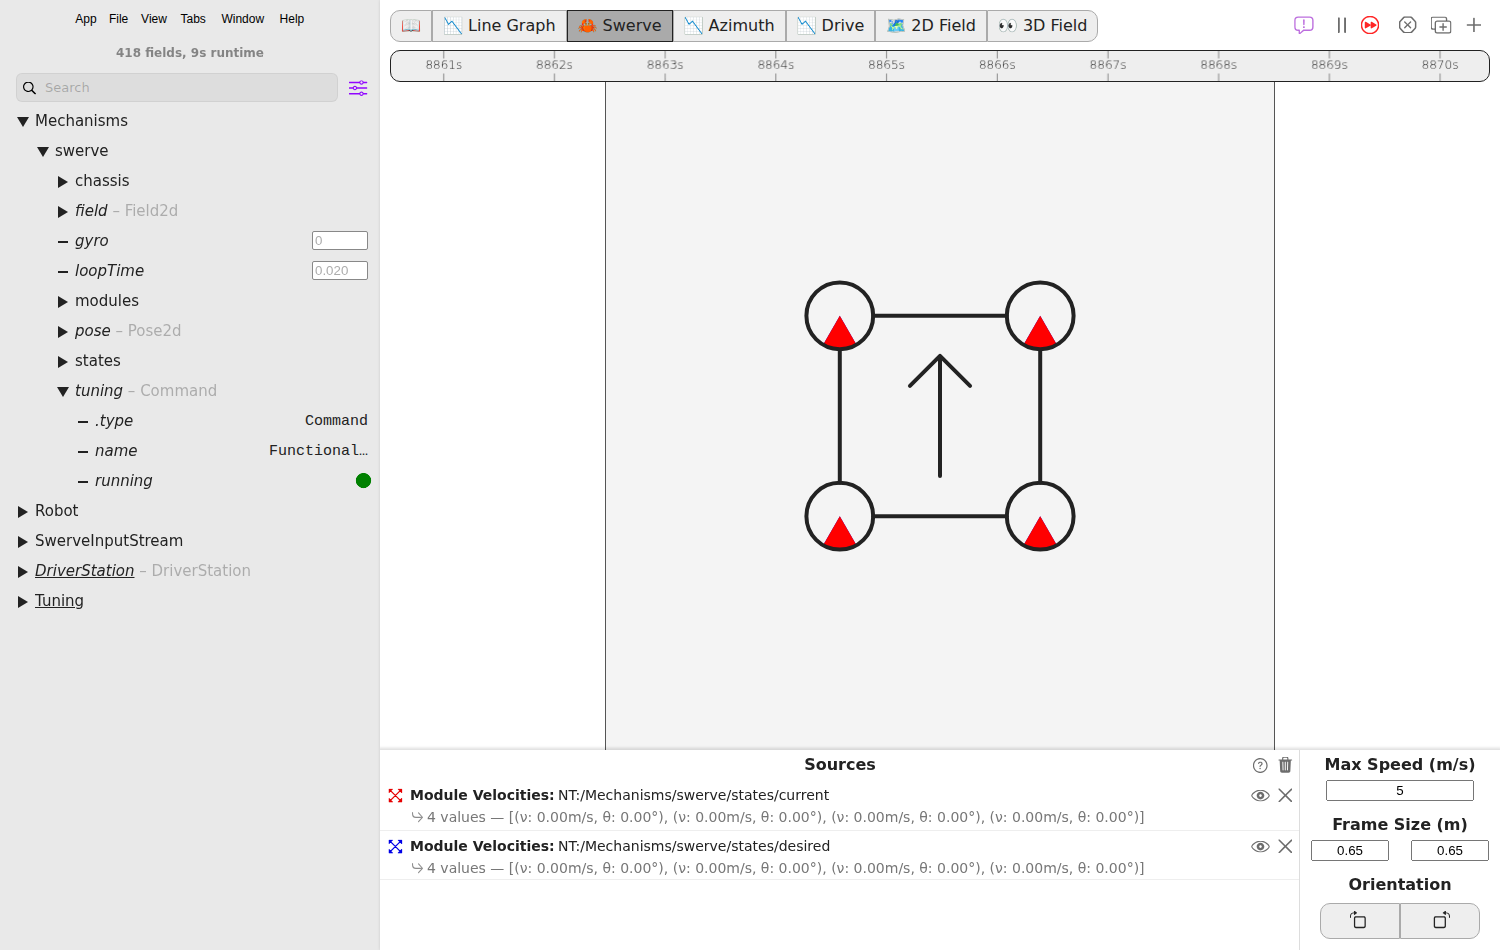
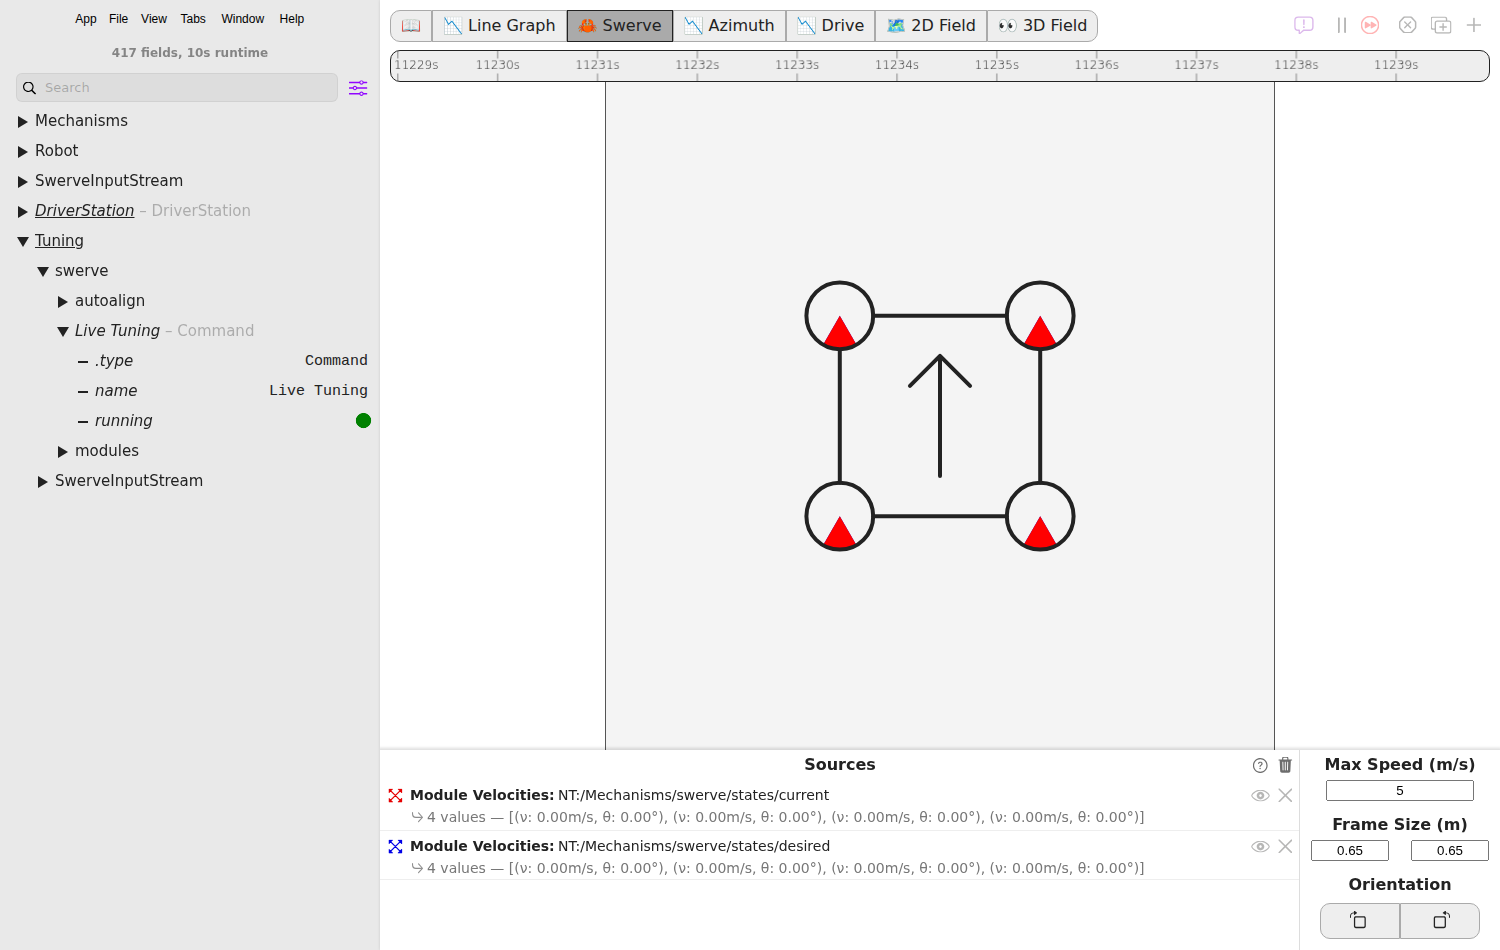
Start the swerve tuning command at Tuning/<name>/Live Tuning, where YAMS now publishes it (#30)
The Live tuning page, the swerve tutorial's tune and robot steps, and the SwerveDrive page name the new path, and the tune step's screenshot shows it.

diff --git a/tutorials/swerve-drive/tune.md b/tutorials/swerve-drive/tune.md
@@ -47,9 +47,9 @@ One module is enough to graph: the tuning command sends all four the same setpoi
 {% step %}
 ### Start the tuning command
 
-In the sidebar, open `Mechanisms/swerve/tuning` and click the dot next to `running`, so that it turns green.
+In the sidebar, open `Tuning/swerve/Live Tuning` and click the dot next to `running`, so that it turns green.
 
-<figure><img src="../../.gitbook/assets/advantagescope-tutorial-swerve-start.png" alt="AdvantageScope with the sidebar open at Mechanisms, swerve, tuning, a Command, where the running dot is green, next to the Swerve tab"><figcaption><p>The tuning command running.</p></figcaption></figure>
+<figure><img src="../../.gitbook/assets/advantagescope-tutorial-swerve-start.png" alt="AdvantageScope with the sidebar open at Tuning, swerve, Live Tuning, a Command, where the running dot is green, next to the Swerve tab"><figcaption><p>The tuning command running.</p></figcaption></figure>
 
 **Check it:** `running` stays green, and the sticks no longer drive the robot. Nothing moves yet: no tuning mode is on.
 {% endstep %}
@@ -106,7 +106,7 @@ Open the drive graph. The drive values are under `Tuning/swerve/modules/drive`.
 ### Stop
 
 1. Click `enabled` under `drive` so that it turns red, and type `0` into `velocity`.
-2. Click `running` under `Mechanisms/swerve/tuning` so that it turns red.
+2. Click `running` under `Tuning/swerve/Live Tuning` so that it turns red.
 
 **Check it:** the sticks drive the robot again.
 {% endstep %}
@@ -114,9 +114,9 @@ Open the drive graph. The drive values are under `Tuning/swerve/modules/drive`.
 
 ## If it did not work
 
-* **Typing a value or clicking a dot does nothing.** Turn on AdvantageScope's tuning mode, and check that `running` under `Mechanisms/swerve/tuning` is green.
-* **`Mechanisms/swerve/tuning` is missing.** The tuning command is only there when `SwerveDriveConfig` has both a translation and a rotation controller, as in step 2, and the drive's telemetry is `TelemetryVerbosity.HIGH`.
-* **The modules do not turn to the angle.** Check that `enabled` under `azimuth` is green, and that `running` under `Mechanisms/swerve/tuning` still is.
+* **Typing a value or clicking a dot does nothing.** Turn on AdvantageScope's tuning mode, and check that `running` under `Tuning/swerve/Live Tuning` is green.
+* **`Tuning/swerve/Live Tuning` is missing.** The tuning command is only there when `SwerveDriveConfig` has both a translation and a rotation controller, as in step 2, and the drive's telemetry is `TelemetryVerbosity.HIGH`.
+* **The modules do not turn to the angle.** Check that `enabled` under `azimuth` is green, and that `running` under `Tuning/swerve/Live Tuning` still is.
 * **A wheel turns the other way and runs backwards.** The angle changed by 90 degrees or more. Step between closer angles, such as 0 and 45.
 
 For every tuning value, including auto-align, see [Swerve drive](../../details/live-tuning/README.md#swerve-drive) on the Live tuning page. More problems and fixes: [Troubleshooting](../troubleshooting.md).

diff --git a/details/live-tuning/README.md b/details/live-tuning/README.md
@@ -441,7 +441,7 @@ The simulation does not know about the spring: it models the full carriage weigh
 | What | Where it is published |
 | --- | --- |
 | Values you type | `NT:/Tuning/<name>/<key>` |
-| The tuning command | `NT:/Mechanisms/<name>/tuning` |
+| The tuning command | `NT:/Tuning/<name>/Live Tuning` |
 | The robot pose to watch | `NT:/Mechanisms/<name>/pose` |
 
 `<name>` is the name given to `SwerveDriveConfig.withTelemetry(name, ...)`. The keys are published at `TelemetryVerbosity.HIGH`.
@@ -456,11 +456,11 @@ The tuning command is only published when both a translation and a rotation cont
 
 {% tabs %}
 {% tab title="Commands v2" %}
-Drag `NT:/Mechanisms/<name>/tuning` onto your Elastic dashboard and press its button, or bind it to a controller button.
+Drag `NT:/Tuning/<name>/Live Tuning` onto your Elastic dashboard and press its button, or bind it to a controller button.
 {% endtab %}
 
 {% tab title="Commands v3" %}
-The command is published through `CommandTunable`. Set `NT:/Mechanisms/<name>/tuning/running` to `true` to start it and `false` to stop it.
+The command is published through `CommandTunable`. Set `NT:/Tuning/<name>/Live Tuning/running` to `true` to start it and `false` to stop it.
 {% endtab %}
 {% endtabs %}
 
@@ -507,7 +507,7 @@ Watch one azimuth motor's `mechanism/position` against its `closedloop/setpoint/
 {% step %}
 #### Start the tuning command and turn the mode on
 
-Start `NT:/Mechanisms/<name>/tuning`, type `0` into `modules/azimuth/angle`, then set `modules/azimuth/enabled` to `true`. The drive motors are held at 0, so the wheels only turn in place.
+Start `NT:/Tuning/<name>/Live Tuning`, type `0` into `modules/azimuth/angle`, then set `modules/azimuth/enabled` to `true`. The drive motors are held at 0, so the wheels only turn in place.
 {% endstep %}
 
 {% step %}
@@ -565,7 +565,7 @@ Watch one drive motor's `measurement/velocity` against its `closedloop/setpoint/
 {% step %}
 #### Start the tuning command and turn the mode on
 
-Start `NT:/Mechanisms/<name>/tuning`, type `0` into `modules/drive/velocity`, then set `modules/drive/enabled` to `true`.
+Start `NT:/Tuning/<name>/Live Tuning`, type `0` into `modules/drive/velocity`, then set `modules/drive/enabled` to `true`.
 {% endstep %}
 
 {% step %}

diff --git a/tutorials/swerve-drive/real-robot.md b/tutorials/swerve-drive/real-robot.md
@@ -115,7 +115,7 @@ SetupModule(m_frontLeft, "frontleft", wpi::math::Translation2d{24_in, 24_in}, 64
 
 Every angle in WPILib is counter-clockwise positive, seen from above, and every motor has to agree. The [swerve tuning command](../../details/live-tuning/README.md#swerve-drive) makes this easy: it turns every wheel to an angle, or runs every wheel at a speed, that you type on the dashboard.
 
-Enable the robot in Teleoperated, still on blocks, and start the tuning command `NT:/Mechanisms/swerve/tuning` as [Start the tuning command](../../details/live-tuning/README.md#start-the-tuning-command) shows. The values you type are under `NT:/Tuning/swerve/`.
+Enable the robot in Teleoperated, still on blocks, and start the tuning command `NT:/Tuning/swerve/Live Tuning` as [Start the tuning command](../../details/live-tuning/README.md#start-the-tuning-command) shows. The values you type are under `NT:/Tuning/swerve/`.
 
 **Azimuth.** Type `0` into `modules/azimuth/angle`, set `modules/azimuth/enabled` to `true`, then type `90`.
 

diff --git a/details/swerve-drive.md b/details/swerve-drive.md
@@ -401,7 +401,7 @@ config.withTelemetry("swerve", TelemetryVerbosity.HIGH);
 | Modules azimuth voltage enabled (tunable)  | `modules/azimuth/voltage/enabled`   |       |       |    ✓   |
 
 {% hint style="info" %}
-`autoalign/setpoint/x`/`autoalign/setpoint/y`/`autoalign/setpoint/rot` and `autoalign/enabled`, and the `modules/drive/*`/`modules/azimuth/*` tuning fields, only take effect while the `Mechanisms/<name>/tuning` command is scheduled, since that's the loop that actually reads them. Publishing values to them with the tuning command idle has no effect on the robot.
+`autoalign/setpoint/x`/`autoalign/setpoint/y`/`autoalign/setpoint/rot` and `autoalign/enabled`, and the `modules/drive/*`/`modules/azimuth/*` tuning fields, only take effect while the `Tuning/<name>/Live Tuning` command is scheduled, since that's the loop that actually reads them. Publishing values to them with the tuning command idle has no effect on the robot.
 {% endhint %}
 
 {% hint style="warning" %}
